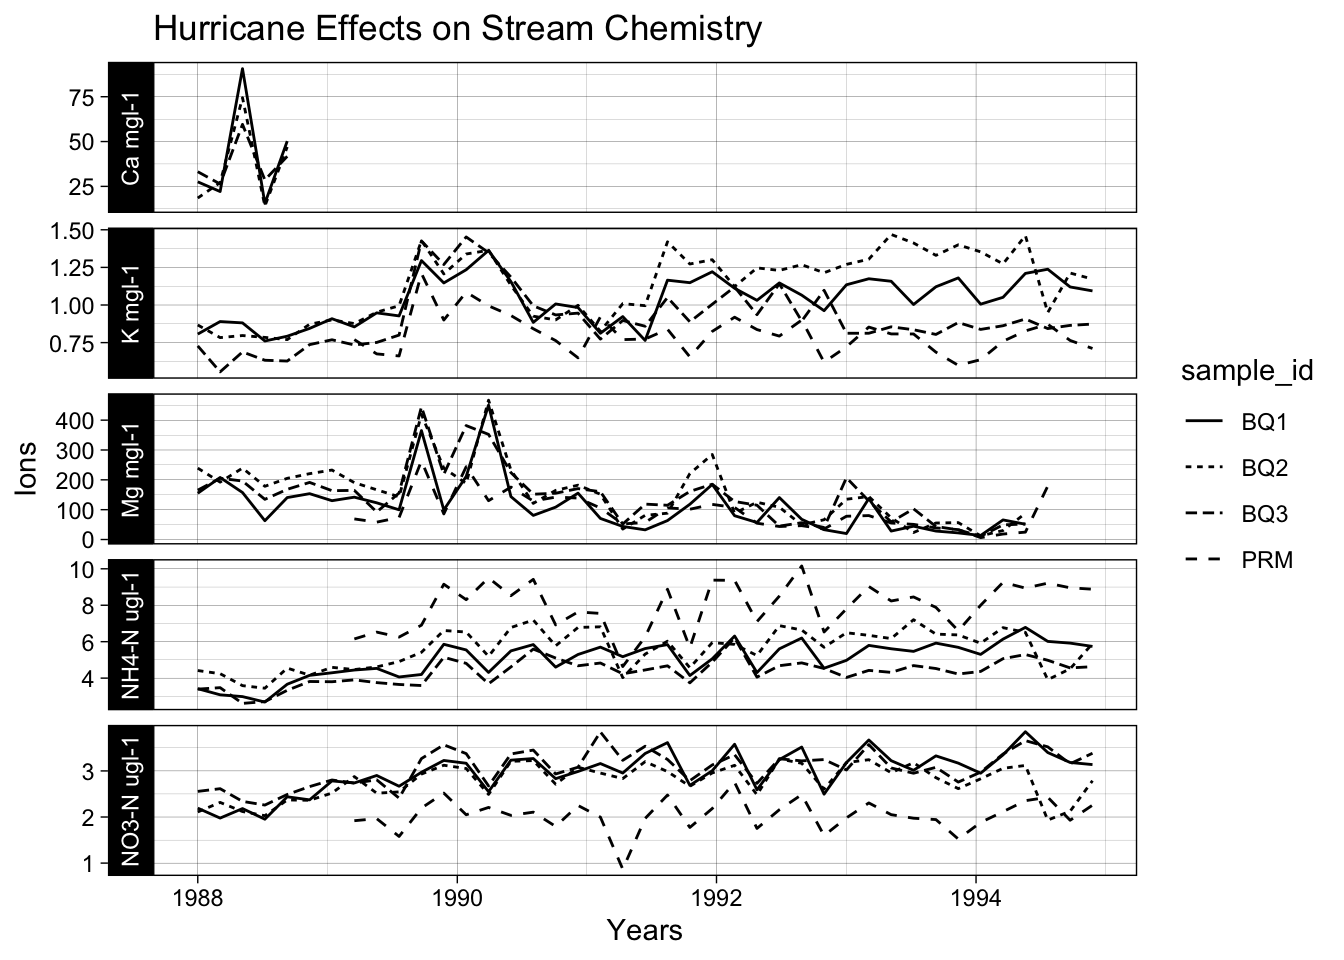
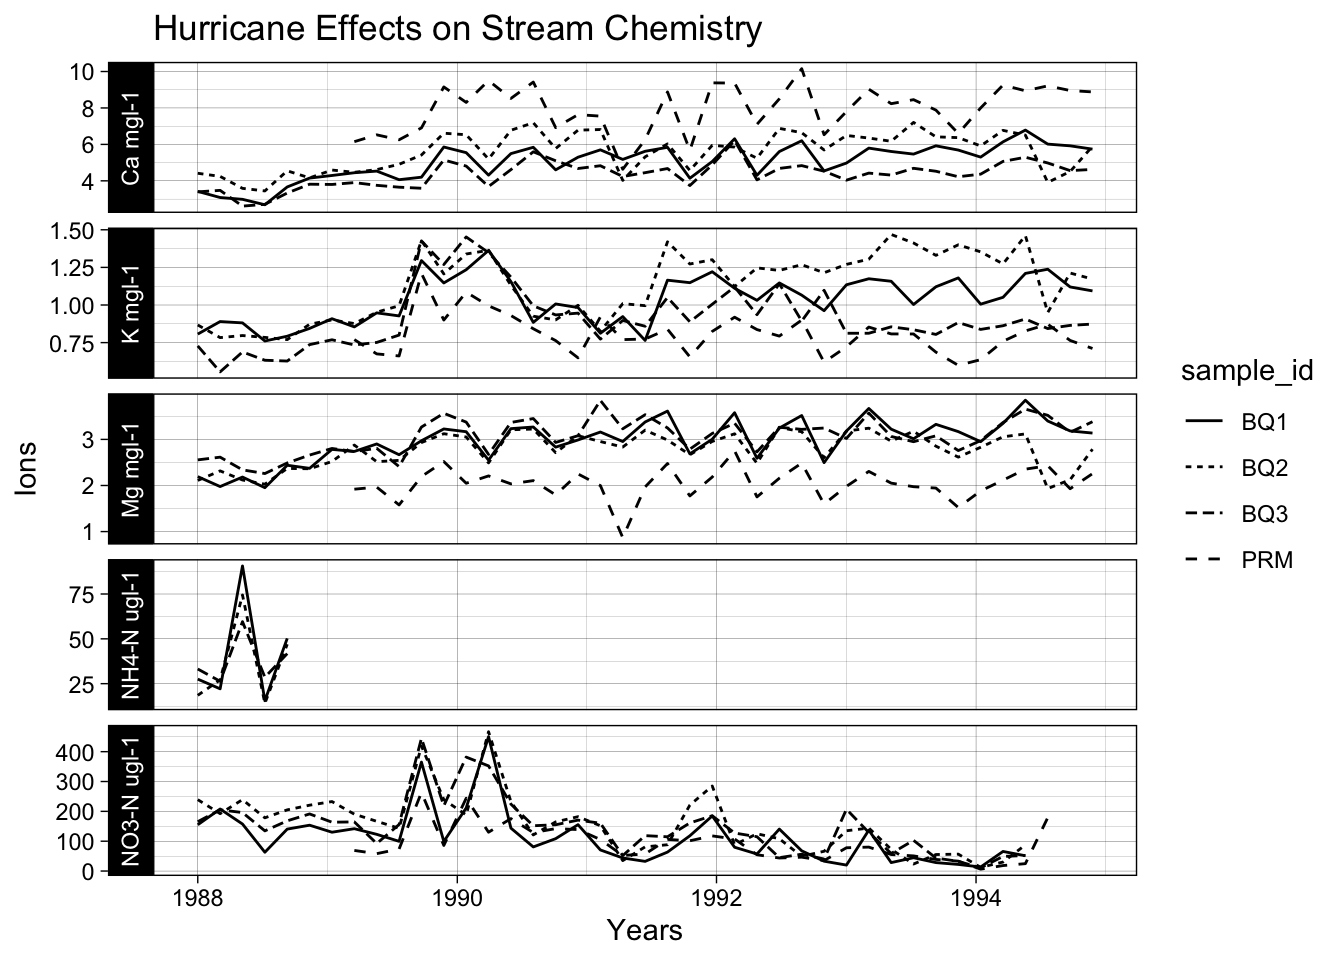
rendering paper

diff --git a/docs/paper.html b/docs/paper.html
@@ -243,13 +243,13 @@ date  (1): Sample_Date
 <span id="cb13-43"><a href="#cb13-43" aria-hidden="true" tabindex="-1"></a></span>
 <span id="cb13-44"><a href="#cb13-44" aria-hidden="true" tabindex="-1"></a>    <span class="co"># for nh4</span></span>
 <span id="cb13-45"><a href="#cb13-45" aria-hidden="true" tabindex="-1"></a>    smoothed_data<span class="sc">$</span>nh4_n[i] <span class="ot">&lt;-</span> <span class="fu">mean</span>(</span>
-<span id="cb13-46"><a href="#cb13-46" aria-hidden="true" tabindex="-1"></a>      raw_data<span class="sc">$</span><span class="st">'NH4-N'</span>[raw_data<span class="sc">$</span>Sample_Date <span class="sc">&gt;=</span> ws <span class="sc">&amp;</span> raw_data<span class="sc">$</span>Sample_Date <span class="sc">&lt;</span> we],</span>
+<span id="cb13-46"><a href="#cb13-46" aria-hidden="true" tabindex="-1"></a>      raw_data<span class="sc">$</span><span class="st">`</span><span class="at">NH4-N</span><span class="st">`</span>[raw_data<span class="sc">$</span>Sample_Date <span class="sc">&gt;=</span> ws <span class="sc">&amp;</span> raw_data<span class="sc">$</span>Sample_Date <span class="sc">&lt;</span> we],</span>
 <span id="cb13-47"><a href="#cb13-47" aria-hidden="true" tabindex="-1"></a>      <span class="at">na.rm =</span> <span class="cn">TRUE</span></span>
 <span id="cb13-48"><a href="#cb13-48" aria-hidden="true" tabindex="-1"></a>    )</span>
 <span id="cb13-49"><a href="#cb13-49" aria-hidden="true" tabindex="-1"></a></span>
 <span id="cb13-50"><a href="#cb13-50" aria-hidden="true" tabindex="-1"></a>    <span class="co"># for nh4</span></span>
 <span id="cb13-51"><a href="#cb13-51" aria-hidden="true" tabindex="-1"></a>    smoothed_data<span class="sc">$</span>no3_n[i] <span class="ot">&lt;-</span> <span class="fu">mean</span>(</span>
-<span id="cb13-52"><a href="#cb13-52" aria-hidden="true" tabindex="-1"></a>      raw_data<span class="sc">$</span><span class="st">'NO3-N'</span>[raw_data<span class="sc">$</span>Sample_Date <span class="sc">&gt;=</span> ws <span class="sc">&amp;</span> raw_data<span class="sc">$</span>Sample_Date <span class="sc">&lt;</span> we],</span>
+<span id="cb13-52"><a href="#cb13-52" aria-hidden="true" tabindex="-1"></a>      raw_data<span class="sc">$</span><span class="st">`</span><span class="at">NO3-N</span><span class="st">`</span>[raw_data<span class="sc">$</span>Sample_Date <span class="sc">&gt;=</span> ws <span class="sc">&amp;</span> raw_data<span class="sc">$</span>Sample_Date <span class="sc">&lt;</span> we],</span>
 <span id="cb13-53"><a href="#cb13-53" aria-hidden="true" tabindex="-1"></a>      <span class="at">na.rm =</span> <span class="cn">TRUE</span></span>
 <span id="cb13-54"><a href="#cb13-54" aria-hidden="true" tabindex="-1"></a>    )</span>
 <span id="cb13-55"><a href="#cb13-55" aria-hidden="true" tabindex="-1"></a>  }</span>
@@ -271,10 +271,10 @@ date  (1): Sample_Date
 <span id="cb14-8"><a href="#cb14-8" aria-hidden="true" tabindex="-1"></a><span class="fu">colnames</span>(lter_smoothed) <span class="ot">&lt;-</span> <span class="fu">c</span>(</span>
 <span id="cb14-9"><a href="#cb14-9" aria-hidden="true" tabindex="-1"></a>  <span class="st">'window_start'</span>,</span>
 <span id="cb14-10"><a href="#cb14-10" aria-hidden="true" tabindex="-1"></a>  <span class="st">'K mgl-1'</span>,</span>
-<span id="cb14-11"><a href="#cb14-11" aria-hidden="true" tabindex="-1"></a>  <span class="st">'NO3-N ugl-1'</span>,</span>
-<span id="cb14-12"><a href="#cb14-12" aria-hidden="true" tabindex="-1"></a>  <span class="st">'Mg mgl-1'</span>,</span>
-<span id="cb14-13"><a href="#cb14-13" aria-hidden="true" tabindex="-1"></a>  <span class="st">'Ca mgl-1'</span>,</span>
-<span id="cb14-14"><a href="#cb14-14" aria-hidden="true" tabindex="-1"></a>  <span class="st">'NH4-N ugl-1'</span>,</span>
+<span id="cb14-11"><a href="#cb14-11" aria-hidden="true" tabindex="-1"></a>  <span class="st">'Mg mgl-1'</span>,</span>
+<span id="cb14-12"><a href="#cb14-12" aria-hidden="true" tabindex="-1"></a>  <span class="st">'NO3-N ugl-1'</span>,</span>
+<span id="cb14-13"><a href="#cb14-13" aria-hidden="true" tabindex="-1"></a>  <span class="st">'NH4-N ugl-1'</span>,</span>
+<span id="cb14-14"><a href="#cb14-14" aria-hidden="true" tabindex="-1"></a>  <span class="st">'Ca mgl-1'</span>,</span>
 <span id="cb14-15"><a href="#cb14-15" aria-hidden="true" tabindex="-1"></a>  <span class="st">'sample_id'</span></span>
 <span id="cb14-16"><a href="#cb14-16" aria-hidden="true" tabindex="-1"></a>)</span>
 <span id="cb14-17"><a href="#cb14-17" aria-hidden="true" tabindex="-1"></a></span>
@@ -321,7 +321,7 @@ date  (1): Sample_Date
 • colour : "Site"</code></pre>
 </div>
 <div class="cell-output cell-output-stderr">
-<pre><code>Warning: Removed 48 rows containing missing values or values outside the scale range
+<pre><code>Warning: Removed 13 rows containing missing values or values outside the scale range
 (`geom_line()`).</code></pre>
 </div>
 <div class="cell-output-display">
